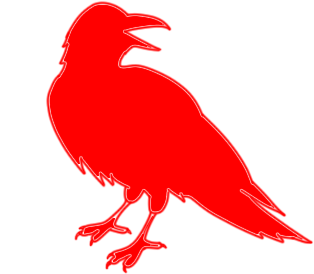
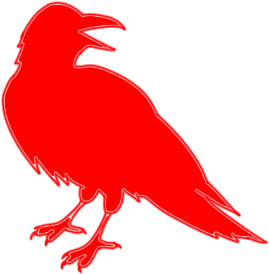
asd

Changed region(s): [[0.0, 0.0, 1.0, 1.0]]

diff --git a/Assets/Scripts/RavensUISignal.cs b/Assets/Scripts/RavensUISignal.cs
@@ -5,10 +5,15 @@ using UnityEngine.UI;
 
 public class RavensUISignal : MonoBehaviour
 {
-    [SerializeField] Camera _mainCamera;
+    Camera _mainCamera;
 
     SimpleRavenEnemy _raven;
     RectTransform _rectTransform;
+
+    [SerializeField] RectTransform _ravenRectTransform;
+
+    int localScaleX;
+    int localScaleY;
     private void Start()
     {
         _rectTransform = GetComponent<RectTransform>();
@@ -19,11 +24,16 @@ public class RavensUISignal : MonoBehaviour
         Vector3 ravenPos = _mainCamera.WorldToScreenPoint(_raven.transform.position);
         Vector3 newPosition = new Vector3(ravenPos.x, ravenPos.y, 0);
 
-        if(ravenPos.z < 0)
+        if (ravenPos.z < 0)
         {
             ravenPos.x = -ravenPos.x;
             ravenPos.y = -ravenPos.y;
         }
+
+        localScaleX = ravenPos.x < _rectTransform.rect.width / 2 ? -1 : 1;
+        localScaleY = ravenPos.y < _rectTransform.rect.height / 2 ? -1 : 1;
+
+        _ravenRectTransform.localScale = new Vector3(localScaleX, localScaleY, 1);
 
         ravenPos.x = Mathf.Clamp(ravenPos.x, _rectTransform.rect.width / 2, Screen.width - _rectTransform.rect.width / 2);
         ravenPos.y = Mathf.Clamp(ravenPos.y, _rectTransform.rect.height / 2, Screen.height - _rectTransform.rect.height / 2);
